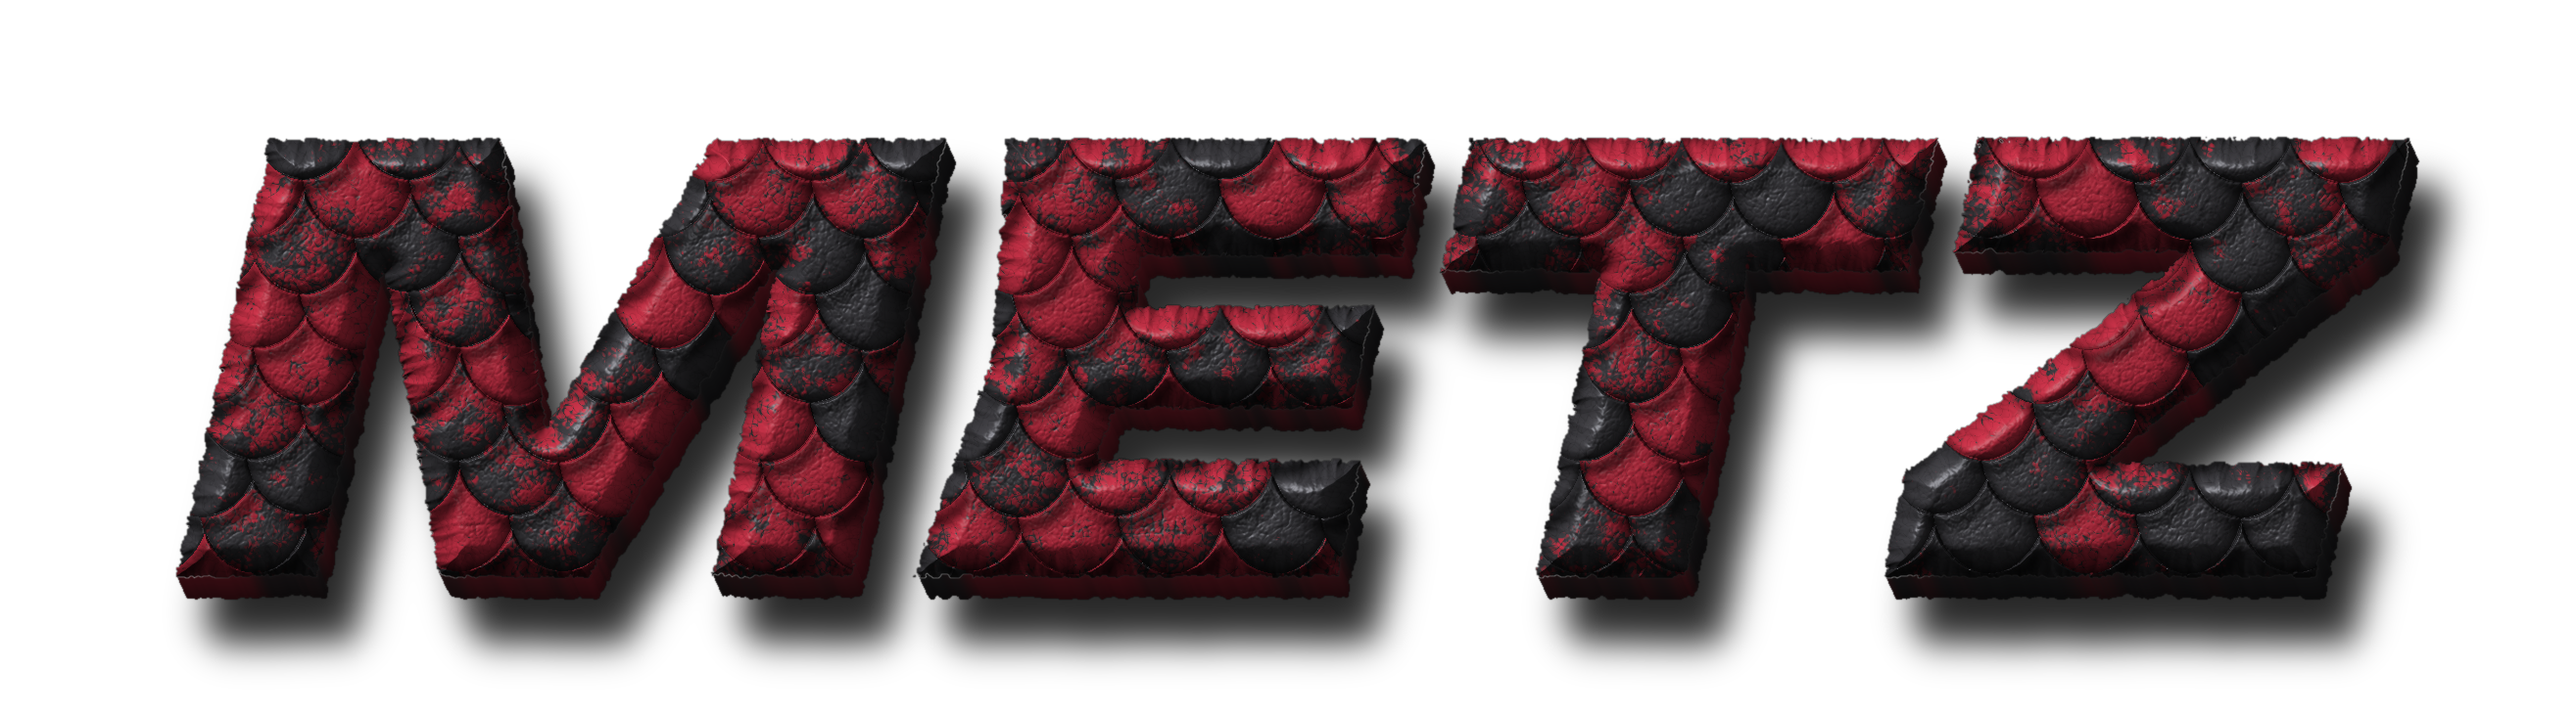
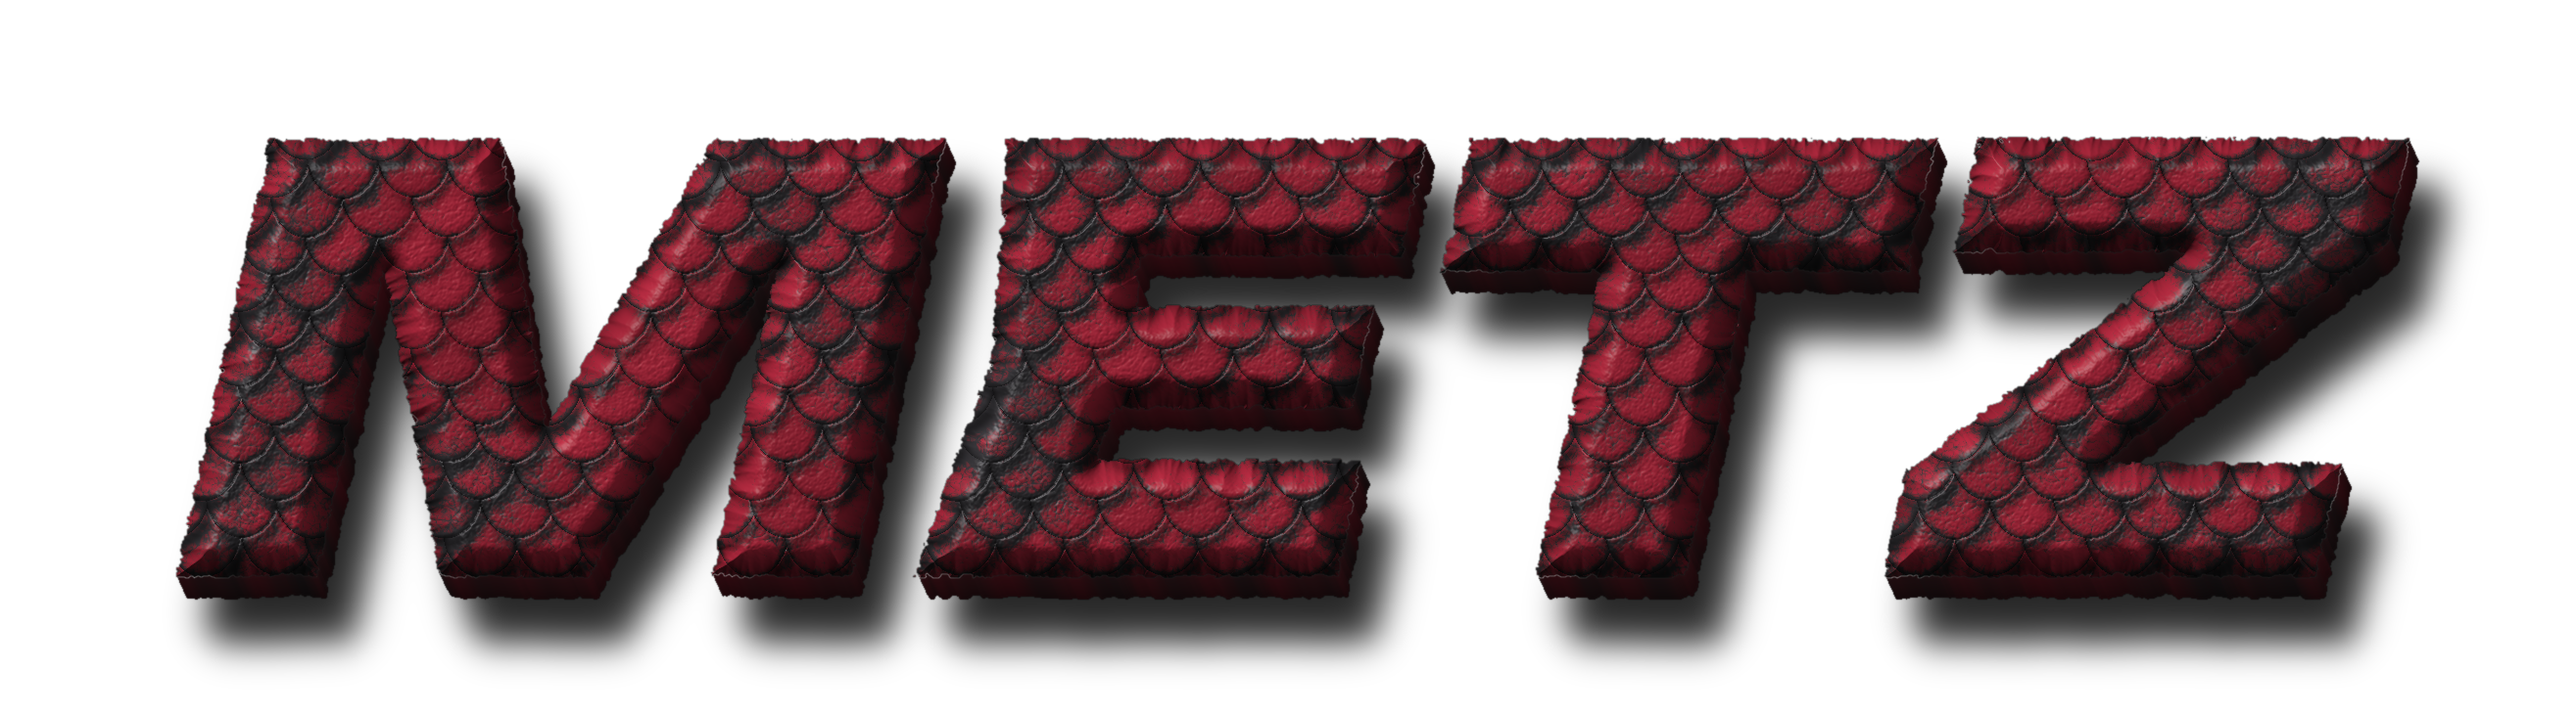
Carte BUUUT FC Metz : écailles du Graoully améliorées, par défaut
Écailles plus fines et moins bombées, toutes grenat avec une patine noire dans
les creux au lieu d'une alternance noir/rouge ; lisible sur mobile.

Claude-Session: https://claude.ai/code/session_015vv8CFobbzyzoP25xen2dF

Changed region(s): [[0.0624, 0.1806, 0.9354, 0.8126]]

diff --git a/motion/metz-but/src/GoalCard.tsx b/motion/metz-but/src/GoalCard.tsx
@@ -11,7 +11,7 @@ import {SoundTrack} from './SoundTrack';
 
 export const goalCardSchema = z.object({
 	clubWord: z.string(),
-	// 'grenat-relief' = choix validé ; 'grenat' = ancienne texture plaquée (effet « LED », à ne plus utiliser)
+	// 'ecailles' = choix validé (dragon) ; 'grenat' = ancienne texture plaquée (effet « LED », à ne plus utiliser)
 	clubMaterial: z.enum(['grenat-relief', 'grenat', 'ecailles', 'vitrail']),
 	goalWord: z.string(),
 	number: z.string(),
@@ -28,7 +28,7 @@ export type GoalCardProps = z.infer<typeof goalCardSchema>;
 
 export const defaultGoalCardProps: GoalCardProps = {
 	clubWord: 'METZ',
-	clubMaterial: 'grenat-relief',
+	clubMaterial: 'ecailles',
 	goalWord: 'BUUUUT',
 	number: '8',
 	firstName: 'JESSY',

diff --git a/motion/metz-but/tools/lettres3d.py b/motion/metz-but/tools/lettres3d.py
@@ -48,7 +48,7 @@ solid = gaussian_filter(solid, 0.7)
 dist = distance_transform_edt(solid > 0.5)
 
 # --- écailles en tuiles sur toute la surface -----------------------------------------------
-SW, SH = 104.0, 136.0
+SW, SH = 70.0, 92.0  # écailles fines : plus nombreuses dans chaque lettre, meilleure lisibilité
 ROW = SH * 0.42
 label = np.full((H, W), -1, np.int32)
 dome = np.zeros((H, W), np.float32)
@@ -89,15 +89,17 @@ def plates(spacing, seed):
     return np.exp(-(((dd[:, 1] - dd[:, 0]).reshape(H, W)) / 1.1) ** 2)
 
 
-wrinkle = 0.45 * ridges(4.5, 21) + 0.4 * ridges(10, 22) + 0.3 * plates(22, 23)
+wrinkle = 0.4 * ridges(3.2, 21) + 0.35 * ridges(7, 22) + 0.3 * plates(15, 23)
 grain = noise(1.4, 7) * 0.6 + noise(3, 8) * 0.4
 
 # --- relief total : biseau de la lettre + écailles + cuir --------------------------------------
 BEVEL = 34.0
 bevel = np.clip(dist / BEVEL, 0, 1)
 bevel = 1 - (1 - bevel) ** 2.2  # arrondi rapide puis plateau
-height = bevel * 55.0 + dome * 34.0 * (0.35 + 0.65 * bevel) - wrinkle * 1.2 + grain * 0.25
-height += np.exp(-(edge_d / 0.03) ** 2) * 2.2 * bevel
+# écailles peu bombées (plaque plate au centre, bord net) : moins « gonflé »
+plate = np.clip(dome, 0, 1) ** 0.45
+height = bevel * 55.0 + plate * 13.0 * (0.35 + 0.65 * bevel) - wrinkle * 1.0 + grain * 0.25
+height += np.exp(-(edge_d / 0.05) ** 2) * 1.6 * bevel
 height *= solid
 
 gy, gx = np.gradient(gaussian_filter(height, 0.8))
@@ -110,25 +112,27 @@ diff = np.clip((N * L).sum(2), 0, 1)
 spec = np.clip((N * Hh).sum(2), 0, 1) ** 26
 fill = np.clip((N * np.array([0.5, 0.2, 0.84])).sum(2), 0, 1) ** 2
 
-sx, sy = 9, 16
+sx, sy = 6, 11
 zs = np.full_like(zmap, -1e9)
 zs[sy:, sx:] = zmap[:-sy, :-sx]
 shadow = gaussian_filter(((zs > zmap) & (label >= 0)).astype(np.float32), 5)
 ao = (1 - 0.9 * shadow) * (0.2 + 0.8 * np.clip(edge_d * 7, 0, 1) ** 0.6)
 ao *= 0.55 + 0.45 * bevel  # les bords de la lettre reçoivent moins de lumière ambiante
 
-per_scale = rng.uniform(-1.0, 1.0, n + 1)[label]
-patches = noise(90, 11) * 0.45 + noise(16, 12) * 0.4 + noise(3, 13) * 0.3
-t = 0.18 + 0.8 * per_scale + patches * 0.45 + 0.25 * dome - wrinkle * 0.6
-red = np.clip((t - 0.1) / 0.5, 0, 1)
-red = red * red * (3 - 2 * red)
-charcoal = np.array([0.032, 0.031, 0.036])
-grenat = np.array([0.44, 0.018, 0.04])
-albedo = charcoal * (1 - red[..., None]) + grenat * red[..., None]
-albedo *= (1 - 0.45 * wrinkle)[..., None]
-
-front = albedo * (0.03 + 1.9 * diff[..., None] ** 1.3 + 0.2 * fill[..., None]) * ao[..., None]
-front += (spec * 0.36 * (0.35 + 0.65 * (1 - red)) * ao)[..., None] * np.array([0.85, 0.86, 0.95])
+# couleur : toutes les écailles en grenat (nuances par écaille), patine noire qui s'accumule dans les creux :
+# sous le bord des écailles du dessus, dans les rides du cuir, et en quelques zones usées
+shade_k = rng.uniform(0.75, 1.15, n + 1)[label]
+patches = noise(110, 11) * 0.5 + noise(20, 12) * 0.35 + noise(3, 13) * 0.25
+crevice = np.clip(1 - edge_d * 5, 0, 1) ** 1.5
+black = np.clip(0.95 * shadow + 0.65 * crevice + 0.8 * wrinkle + 0.38 * patches - 0.05, 0, 1)
+black = black * black * (3 - 2 * black)
+red = 1 - black
+charcoal = np.array([0.028, 0.026, 0.03])
+grenat = np.array([0.33, 0.012, 0.03])
+albedo = charcoal * black[..., None] + grenat * (red * shade_k)[..., None]
+front = albedo * (0.05 + 1.85 * diff[..., None] ** 1.2 + 0.25 * fill[..., None]) * ao[..., None]
+# cuir légèrement ciré : brillant discret, un peu plus marqué sur la patine noire
+front += (spec * 0.3 * (0.45 + 0.55 * black) * ao)[..., None] * np.array([0.9, 0.88, 0.92])
 
 # --- épaisseur : flanc visible en bas à droite (extrusion), teinte sombre et lisse -----------
 DEPTH = 22

diff --git a/.claude/skills/motion-goal-card/references/adaptation-club.md b/.claude/skills/motion-goal-card/references/adaptation-club.md
@@ -79,7 +79,11 @@ Projet : `motion/metz-but/` (props dans `players.json`, rendu par joueur avec `n
   (flanc sombre), matière qui suit le relief et passe sur les arêtes, une seule lumière, ombre portée, aucun contour.
   Référence donnée : lettres sculptées dans la roche. Mise en œuvre : `tools/lettres3d.py` (écailles du Graoully,
   image RGBA par ligne, graines différentes), prop `clubMaterial: 'ecailles'` ; `'grenat'` = ancienne méthode plaquée.
-- **Choix validé : `clubMaterial: 'grenat-relief'`** (défaut) — grenat taillé traité en objet par `tools/gemme3d.py` :
+- **Choix final de l'utilisateur : `clubMaterial: 'ecailles'`** (défaut, le dragon). Version améliorée de
+  `tools/lettres3d.py` : écailles fines (70×92 px sur une police de 600), peu bombées, toutes grenat avec une patine
+  noire dans les creux (sous les écailles du dessus, rides du cuir, zones usées) — l'alternance noir/rouge rendait
+  les lettres illisibles. Contrôlé lisible à 360 px de large.
+- Option `'grenat-relief'` — grenat taillé traité en objet par `tools/gemme3d.py` :
   face facettée (texture `gemme.py` recalculée à la taille du mot), chanfrein qui accroche la lumière, flanc, ombre
   portée, aucun halo ni liseré. Autres options gardées pour comparaison : `'ecailles'`, `'vitrail'` (`tools/vitrail3d.py` :
   verre grenat serti de plombs en relief).
